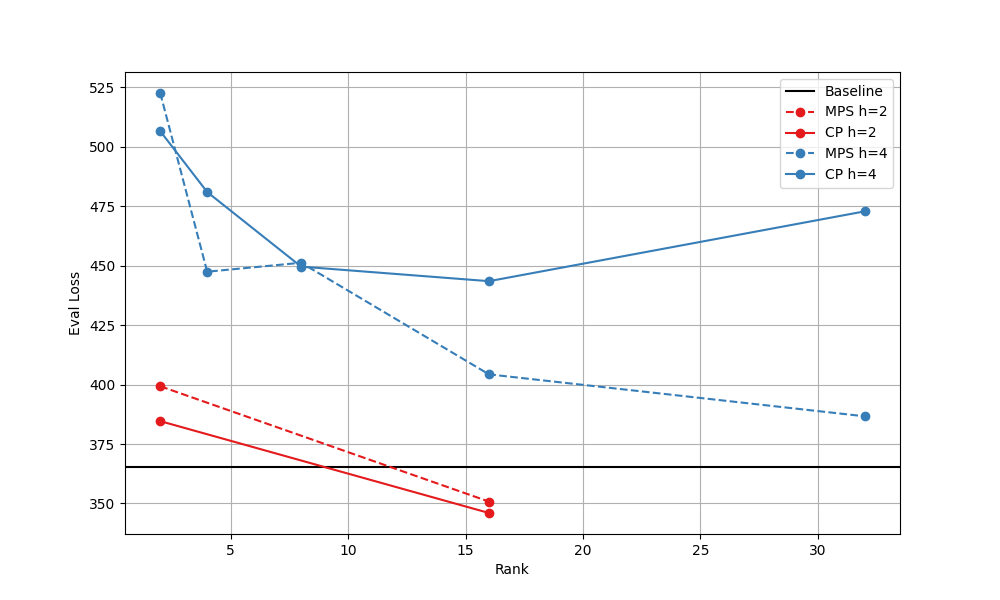
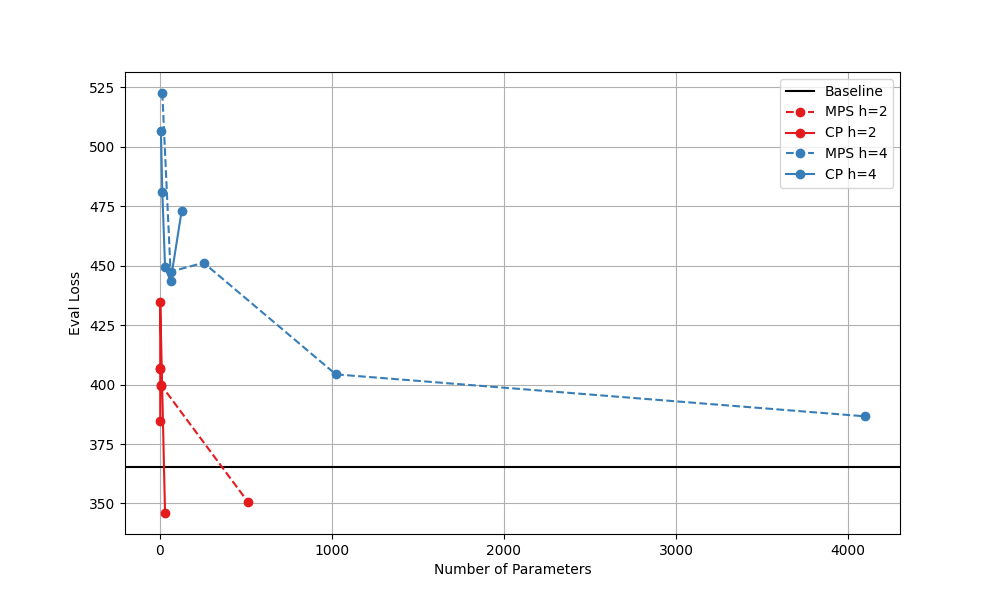
Log NLL for eval

diff --git a/train.py b/train.py
@@ -248,14 +248,16 @@ def evaluate(
     horizon: int = 1,
 ):
     model.eval()
+    loss_meter = AverageMeter()
     nll_meter = AverageMeter()
     device = next(model.parameters()).device
     for batch in eval_dataloader:
         batch = {k: v.to(device) for k, v in batch.items()}
         with torch.no_grad():
-            _, nll, _ = model(horizon=horizon, **batch)
+            loss, nll, _ = model(horizon=horizon, **batch)
+            loss_meter.update(loss.item())
             nll_meter.update(nll.item())
-    return nll_meter.avg
+    return loss_meter.avg, nll_meter.avg
 
 
 # Train function
@@ -283,7 +285,7 @@ def train(
         num_warmup_steps=warmup_steps,
         num_training_steps=num_training_steps,
     )
-    best_eval_loss = float("inf")
+    best_eval_nll = float("inf")
 
     device = torch.device("cuda") if torch.cuda.is_available() else torch.device("cpu")
     model.to(device)
@@ -298,7 +300,7 @@ def train(
             print_output=True,
         )
         train_loss_meter = AverageMeter()  # Create new meter each epoch
-        nll_meter = AverageMeter()
+        train_nll_meter = AverageMeter()
         model.train()
         progress_bar = tqdm(
             train_dataloader,
@@ -312,7 +314,7 @@ def train(
             loss, nll, loss_scale = model(**batch)
             scaled_loss = loss * loss_scale if scale_loss else loss
             train_loss_meter.update(loss.item())
-            nll_meter.update(nll.item())
+            train_nll_meter.update(nll.item())
             # Skip training first epoch if eval_before_training is True
             if eval_before_training and epoch == 1:
                 continue
@@ -336,19 +338,20 @@ def train(
                 time_loss_ms=f"{model_loss_time:.3f}",
             )
 
-        eval_loss = evaluate(
+        eval_loss, eval_nll = evaluate(
             model=model, eval_dataloader=eval_dataloader, horizon=horizon_eval
         )
-        best_eval_loss = min(eval_loss, best_eval_loss)
+        best_eval_nll = min(eval_nll, best_eval_nll)
 
         # Save model checkpoint
-        if eval_loss <= best_eval_loss:
+        if eval_nll <= best_eval_nll:
             print(f"Saving model checkpoint to {save_dir}")
             torch.save(
                 {
                     "state_dict": model.state_dict(),
                     "model_config": model_config,
                     "epoch": epoch,
+                    "eval_nll": eval_nll,
                     "eval_loss": eval_loss,
                 },
                 osp.join(save_dir, "best_model.pth"),
@@ -356,11 +359,12 @@ def train(
 
         # Log metrics to wandb
         print(
-            f"[Epoch {epoch + 1}] Train Loss: {train_loss_meter.avg:.2f} | Eval Loss: {eval_loss:.2f}"
+            f"[Epoch {epoch + 1}] Train Loss: {train_loss_meter.avg:.2f} | Eval Loss: {eval_nll:.2f}"
         )
         wandb.log({"train_loss": train_loss_meter.avg, "epoch": epoch})
-        wandb.log({"nll": nll_meter.avg, "epoch": epoch})
+        wandb.log({"train_nll": train_nll_meter.avg, "epoch": epoch})
         wandb.log({"eval_loss": eval_loss, "epoch": epoch})
+        wandb.log({"eval_nll": eval_nll, "epoch": epoch})
 
 
 if __name__ == "__main__":
@@ -423,7 +427,7 @@ if __name__ == "__main__":
     model = TJDGPT2(**model_config)
 
     wandb.init(
-        project="tjdnet-shakepeare-v3",
+        project="tjdnet-shakepeare",
         config=vars(args),
         name=exp_name,
     )

diff --git a/scripts/plot.py b/scripts/plot.py
@@ -14,9 +14,17 @@ for run in runs:
     elif run.config.get("model") in ["mps", "cp"]:
         model = run.config["model"]
         horizon = run.config.get("horizon", 0)
+        rank = run.config.get("rank", 0)
+
+        # Calculate number of parameters based on model type
+        if model == "cp":
+            params = horizon * rank
+        else:  # mps
+            params = horizon * rank * rank
+
         if horizon not in data[model]:
-            data[model][horizon] = {"ranks": [], "losses": []}
-        data[model][horizon]["ranks"].append(run.config.get("rank", 0))
+            data[model][horizon] = {"params": [], "losses": []}
+        data[model][horizon]["params"].append(params)
         data[model][horizon]["losses"].append(run.summary["eval_loss"])
 
 plt.figure(figsize=(10, 6))
@@ -26,17 +34,19 @@ if baseline_loss:
     plt.axhline(y=baseline_loss, color="black", linestyle="-", label="Baseline")
 
 for i, (horizon, horizon_data) in enumerate(data["mps"].items()):
-    ranks, losses = zip(*sorted(zip(horizon_data["ranks"], horizon_data["losses"])))
-    plt.plot(ranks, losses, "--", marker="o", label=f"MPS h={horizon}", color=colors[i])
+    params, losses = zip(*sorted(zip(horizon_data["params"], horizon_data["losses"])))
+    plt.plot(
+        params, losses, "--", marker="o", label=f"MPS h={horizon}", color=colors[i]
+    )
 
     if horizon in data["cp"]:
         cp_data = data["cp"][horizon]
-        ranks, losses = zip(*sorted(zip(cp_data["ranks"], cp_data["losses"])))
+        params, losses = zip(*sorted(zip(cp_data["params"], cp_data["losses"])))
         plt.plot(
-            ranks, losses, "-", marker="o", label=f"CP h={horizon}", color=colors[i]
+            params, losses, "-", marker="o", label=f"CP h={horizon}", color=colors[i]
         )
 
-plt.xlabel("Rank")
+plt.xlabel("Number of Parameters")
 plt.ylabel("Eval Loss")
 plt.legend()
 plt.grid(True)
